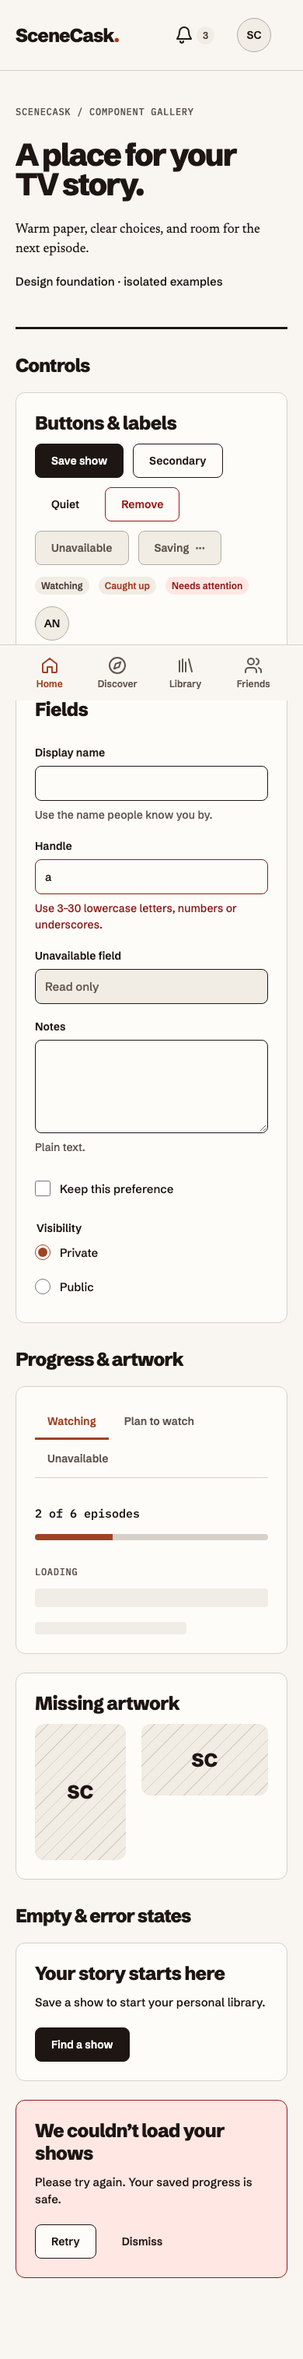
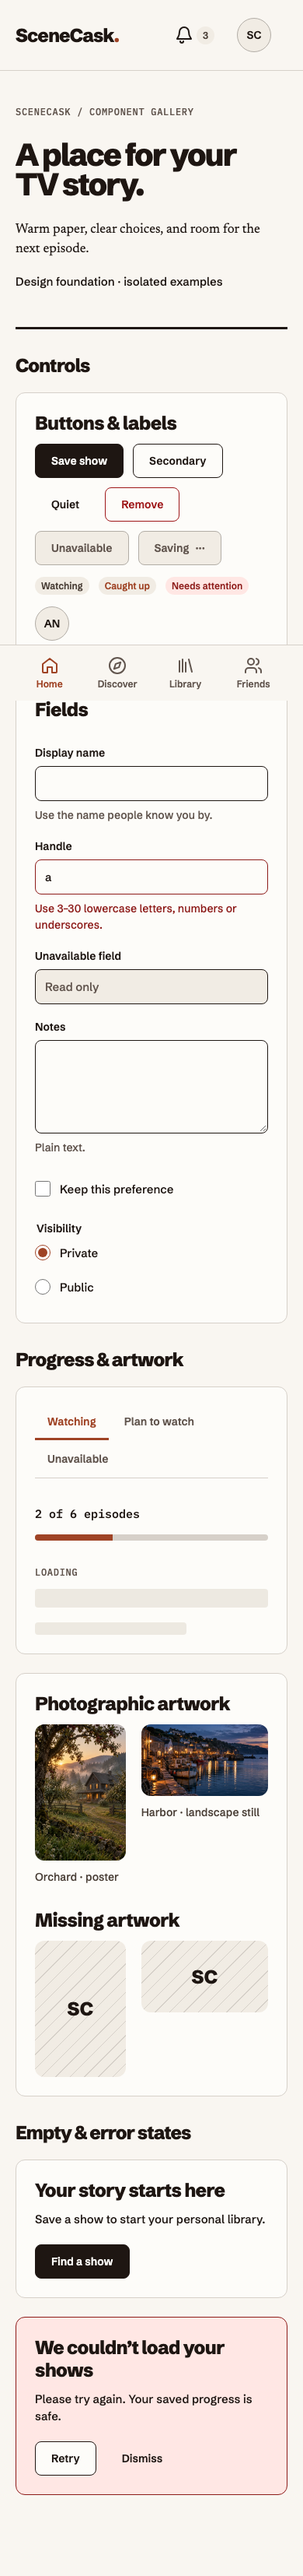
feat(ui): add bundled photographic artwork examples

diff --git a/apps/web/src/components/ui/basic/foundation.spec.ts b/apps/web/src/components/ui/basic/foundation.spec.ts
@@ -32,6 +32,16 @@ for (const width of [320, 390, 859, 860, 1440]) {
       expect(box!.height).toBeGreaterThanOrEqual(44);
     }
     await page.evaluate(() => document.fonts.ready);
+    for (const photo of await page
+      .getByTestId("gallery-photos")
+      .locator("img")
+      .all()) {
+      await expect
+        .poll(() =>
+          photo.evaluate((el) => (el as HTMLImageElement).naturalWidth),
+        )
+        .toBeGreaterThan(0);
+    }
     if (width === 390 || width === 1440)
       await page.screenshot({
         path: `test-results/r04/gallery-${width}.png`,
@@ -112,10 +122,10 @@ test("keyboard, fields, disabled buttons and persistent errors", async ({
   await expect(page.locator(".sc-error").getByRole("alert")).toHaveCount(0);
 });
 
-test("fallback ratios, local fonts and reduced motion", async ({ page }) => {
+test("fallback ratios, local fonts and reduced motion", async ({ page, baseURL }) => {
   const external: string[] = [];
   page.on("request", (request) => {
-    if (!request.url().startsWith("http://127.0.0.1:3104"))
+    if (!request.url().startsWith(baseURL!))
       external.push(new URL(request.url()).host);
   });
   await page.emulateMedia({ reducedMotion: "reduce" });
@@ -124,7 +134,7 @@ test("fallback ratios, local fonts and reduced motion", async ({ page }) => {
     [".sc-art-poster", 2 / 3],
     [".sc-art-still", 16 / 9],
   ] as const) {
-    const box = await page.locator(selector).boundingBox();
+    const box = await page.locator(selector).first().boundingBox();
     expect(box!.width / box!.height).toBeCloseTo(ratio, 2);
   }
   expect(
@@ -529,4 +539,36 @@ test("copied TS side-effect/re-export/dynamic modules resolve in the gallery", a
   await expect(page.getByLabel("Copied module")).toHaveText(
     "Copied dynamic module loaded",
   );
+});
+
+test("bundled gallery photos load with captions and preserve poster/still geometry", async ({
+  page,
+}) => {
+  await page.goto("/");
+  const photos = page.getByTestId("gallery-photos");
+  await expect(photos.locator("img")).toHaveCount(2);
+  await expect(photos.getByText("Orchard · poster")).toBeVisible();
+  await expect(photos.getByText("Harbor · landscape still")).toBeVisible();
+  for (const [alt, ratio] of [
+    ["A farmhouse in a misty orchard at sunrise", 2 / 3],
+    ["Fishing boats and lantern-lit houses beside a harbor at dusk", 16 / 9],
+  ] as const) {
+    const image = photos.getByRole("img", { name: alt });
+    await expect
+      .poll(() => image.evaluate((el) => (el as HTMLImageElement).naturalWidth))
+      .toBeGreaterThan(0);
+    const box = await image.boundingBox();
+    expect(box!.width / box!.height).toBeCloseTo(ratio, 2);
+    expect(await image.evaluate((el) => getComputedStyle(el).objectFit)).toBe(
+      "cover",
+    );
+    const src = await image.getAttribute("src");
+    expect(src).toMatch(/^\/_next\/static\/media\//);
+    const response = await page.request.get(src!);
+    expect(response.status()).toBe(200);
+    expect(response.headers()["content-type"]).toContain("image/webp");
+  }
+  await expect(
+    page.getByRole("img", { name: "Poster unavailable" }),
+  ).toBeVisible();
 });

diff --git a/apps/web/src/components/ui/basic/gallery.tsx b/apps/web/src/components/ui/basic/gallery.tsx
@@ -1,7 +1,10 @@
 "use client";
 import { useState } from "react";
+import orchardPoster from "./artwork/orchard-poster.webp";
+import harborStill from "./artwork/harbor-still.webp";
 import { AppShell } from "../../shell";
 import {
+  ArtworkFigure,
   Avatar,
   Badge,
   Button,
@@ -145,6 +148,20 @@ export function ComponentGallery({
             <Skeleton label="Loading progress" width="65%" height={16} />
           </div>
           <div className="sc-gallery-card">
+            <h3>Photographic artwork</h3>
+            <div className="sc-gallery-art" data-testid="gallery-photos">
+              <ArtworkFigure
+                src={orchardPoster.src}
+                alt="A farmhouse in a misty orchard at sunrise"
+                caption="Orchard · poster"
+              />
+              <ArtworkFigure
+                src={harborStill.src}
+                aspect="still"
+                alt="Fishing boats and lantern-lit houses beside a harbor at dusk"
+                caption="Harbor · landscape still"
+              />
+            </div>
             <h3>Missing artwork</h3>
             <div className="sc-gallery-art">
               <Poster alt="Poster unavailable" />

diff --git a/apps/web/src/components/ui/basic/artwork-figure.tsx b/apps/web/src/components/ui/basic/artwork-figure.tsx
@@ -1,0 +1,13 @@
+import type { ReactNode } from "react";
+import { Poster, type PosterProps } from "./poster";
+export interface ArtworkFigureProps extends PosterProps {
+  caption: ReactNode;
+}
+export function ArtworkFigure({ caption, ...poster }: ArtworkFigureProps) {
+  return (
+    <figure className="sc-art-figure">
+      <Poster {...poster} />
+      <figcaption>{caption}</figcaption>
+    </figure>
+  );
+}

diff --git a/apps/web/src/styles/foundation.css b/apps/web/src/styles/foundation.css
@@ -468,3 +468,16 @@ textarea.sc-input {
     scroll-behavior: auto !important;
   }
 }
+
+.sc-art-figure {
+  margin: 0;
+  min-width: 0;
+}
+.sc-art-figure figcaption {
+  margin-block-start: var(--sc-space-2);
+  font-size: var(--sc-type-label-size);
+  color: var(--sc-color-ink-secondary);
+}
+.sc-gallery-art + h3 {
+  margin-block-start: var(--sc-space-6);
+}

diff --git a/apps/web/src/components/ui/basic/index.ts b/apps/web/src/components/ui/basic/index.ts
@@ -12,3 +12,4 @@ export * from "./skeleton";
 export * from "./empty-state";
 export * from "./error-state";
 export * from "./field";
+export * from "./artwork-figure";

diff --git a/apps/web/src/components/ui/basic/verification.md b/apps/web/src/components/ui/basic/verification.md
@@ -17,7 +17,7 @@ styles, basic primitives, shell, verification files, and the manifest/CI wiring 
 | `yarn api:check` | Pass: OpenAPI validated, 20 contract/client checks, generated client and operation mapping current. No API changes in R04. |
 | `yarn test`, with local `.env` loaded by Node and inherited by Yarn | Pass: 12 Rust tests, including real PostgreSQL migrations/constraints/lifecycle and health/SMTP tests. |
 | `yarn test:e2e`, with the same local environment | Pass: 6 existing browser tests including same-origin real API/PostgreSQL health checks. This proves the foundation smoke flow, not future account/tracking flows. |
-| `yarn test:ui` | Pass: 26 Chromium component/gallery checks using the pinned workspace axe dependency. |
+| `yarn test:ui` | Pass: 27 Chromium component/gallery checks using the pinned workspace axe dependency. |
 | Gallery production build (`node apps/web/src/components/ui/basic/gallery-server.mjs --build`) | Pass: all gallery fixtures, including SVG hydration and server primitives, compile and render with bundled assets. |
 
 The gallery suite measured no horizontal document overflow at 320, 390, 859,
@@ -69,9 +69,25 @@ Intl.Segmenter compatibility with complete emoji; parent notification on invalid
 Tabs selection and all-disabled focus/content; explicit retryKey recovery of an
 unchanged image URL; radio value updates before and after attaching a callback;
 and a copied `.ts` helper exercising side-effect, re-export and dynamic imports.
-All 26 Chromium tests and 8 Node tests pass. Lint, typecheck, immutable install,
+All 27 Chromium tests and 8 Node tests pass. Lint, typecheck, immutable install,
 web/Rust build and isolated gallery build were rerun. API/PostgreSQL/root browser
 evidence above is retained from the preceding revision, with those modules unchanged.
+
+Two original photographic assets were generated with the built-in image_gen tool
+and bundled as WebP (about 380 KB total): a portrait orchard poster and a landscape
+harbor still. `ArtworkFigure` composes the existing Poster with semantic captions.
+An additional browser check verifies decoded images, local asset responses,
+correct 2:3/16:9 crop geometry and retained fallback examples. All 27 browser
+checks pass; axe still reports zero violations at mobile/desktop sizes. Lint,
+typecheck, design checks and production builds were rerun for this addition.
+Prompts and asset provenance are recorded in [artwork/README.md](artwork/README.md).
+
+
+Photo validation was repeated in a clean detached checkout of the committed PR
+with only the photo patch applied, after concurrent unrelated edits appeared in
+the shared workspace. The shared checkout reported three regressions from those
+Avatar/Tabs edits; they were preserved and excluded from the photo commit. The
+isolated result is the evidence for the photo change.
 
 ## Manual visual review
 

diff --git a/apps/web/src/components/ui/basic/README.md b/apps/web/src/components/ui/basic/README.md
@@ -30,6 +30,7 @@ The shell includes a skip link and focusable main landmark. Mobile navigation is
 | Tabs | Controlled value/onChange, group label, unique value/label/content options. Empty/stale/disabled selections render the first enabled tab/panel and notify the parent through onChange. When all tabs are disabled, the tablist remains focusable, an unavailable status appears, and the panel matching the controlled value stays visible. Roving focus, arrow wrap, Home/End, disabled option skipping, and linked panels. |
 | Progress | Required label/value; optional max (default 100). Bounds invalid/nonfinite values without displaying false progress. |
 | Poster | Authorized src or null, required safe alt (empty for decorative art), poster/still aspect, optional className. Reserved 2:3/16:9 geometry, striped fallback on missing/failed images including failures before hydration, decode validation for zero intrinsic width SVGs, recovery when src changes or the caller changes retryKey to retry an unchanged URL. |
+| ArtworkFigure | Poster props plus a caption; reusable semantic figure/figcaption wrapper. |
 | Avatar | Initials and accessible label; Lazy Intl.Segmenter with a pinned Graphemer fallback when unavailable, preserving full graphemes, fixed 44px, no uploads. |
 | Skeleton | Accessible loading label and optional width/height; reduced motion disables pulse. |
 | EmptyState | Title, optional children/action. |
@@ -80,7 +81,7 @@ values remain unchanged. Unitless weight/line-height values are validated separa
 
 `ComponentGallery` exports isolated examples. Its separate Next.js verification
 app lives under this module, with beta `/`, alpha `/alpha`, and an artwork test
-fixture `/art`. None of these routes belongs to the production application.
+fixture `/art`. The gallery includes two bundled photographic examples alongside the unavailable-artwork states, composed with `ArtworkFigure`. Prompts and provenance are in [artwork/README.md](artwork/README.md). None of these routes belongs to the production application.
 
 From the repository root:
 

diff --git a/apps/web/src/components/ui/basic/artwork/README.md b/apps/web/src/components/ui/basic/artwork/README.md
@@ -1,0 +1,19 @@
+# Gallery photo assets
+
+Original AI-generated demonstration artwork made with the built-in image_gen tool
+(imagegen skill) on 2026-10-07. These are fictional scenes, not artwork from an
+existing television series. They are bundled locally and statically imported by
+the isolated gallery. WebP exports use quality 85, at 768px and 960px wide.
+
+- `orchard-poster.webp`: portrait 2:3 poster, 768 × 1152.
+- `harbor-still.webp`: landscape 16:9 still, 960 × 540.
+
+## Final generation prompts
+
+**Poster**
+
+Use case: photorealistic-natural. Asset type: photographic artwork for a fictional TV-show poster in SceneCask's component gallery. Create a single vertical 2:3 cinematic photograph: a misty orchard at dawn, an old timber farmhouse among tall fruit trees, natural soft morning light, restrained forest greens and warm amber window light, detailed bark and grasses, subtle film grain. Strong, legible composition even at thumbnail size. Full bleed photographic scene, no border. No text, titles, logos, watermark, collage or UI. This is original demo artwork, not an existing TV series poster.
+
+**Still**
+
+Use case: photorealistic-natural. Asset type: landscape 16:9 cinematic photograph for a fictional TV-show still in SceneCask's component gallery. A small coastal village harbor at blue hour, weathered fishing boats on calm water, warm lanterns glowing along the stone quay, distant hillside houses, a muted blue sea and copper lights with realistic reflections. Natural photographic detail and subtle film grain. Beautiful clear scene at thumbnail size. Full bleed photograph. No text, logos, watermark, collage, border or UI. Original demonstration artwork, no existing television franchise.
